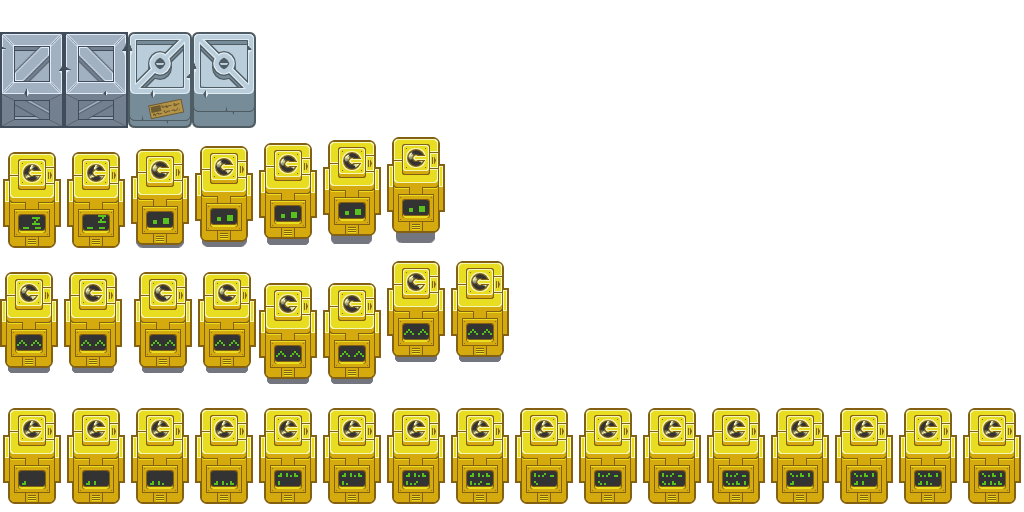
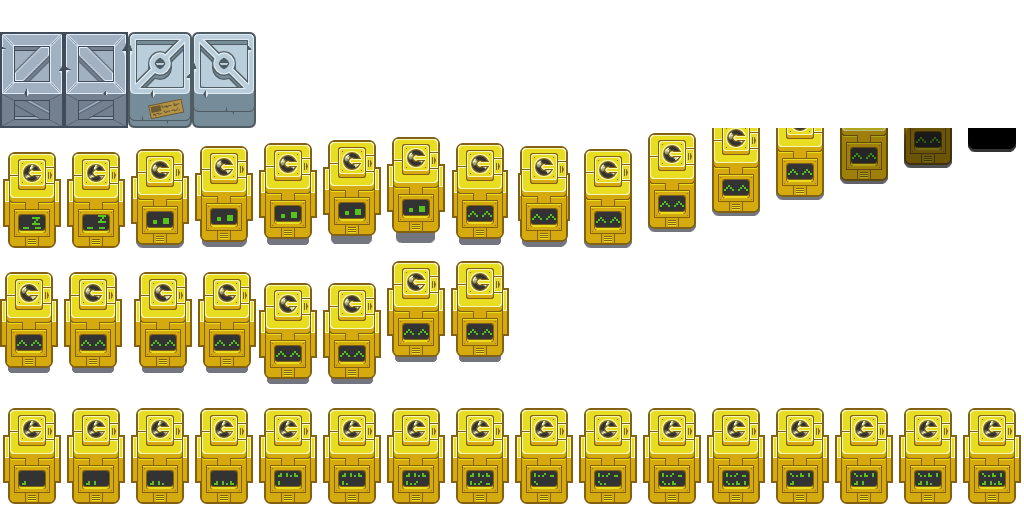
- add exit animation

Changed region(s): [[0.4375, 0.25, 1.0, 0.5]]

diff --git a/android/assets/maps/objects.tsx b/android/assets/maps/objects.tsx
@@ -1,0 +1,105 @@
+<?xml version="1.0" encoding="UTF-8"?>
+<tileset name="objects" tilewidth="64" tileheight="128" tilecount="64" columns="16">
+ <image source="objects.png" width="1024" height="512"/>
+ <tile id="16">
+  <animation>
+   <frame tileid="16" duration="400"/>
+   <frame tileid="17" duration="400"/>
+  </animation>
+ </tile>
+ <tile id="18">
+  <animation>
+   <frame tileid="18" duration="100"/>
+   <frame tileid="19" duration="100"/>
+   <frame tileid="20" duration="100"/>
+   <frame tileid="21" duration="100"/>
+   <frame tileid="22" duration="100"/>
+   <frame tileid="21" duration="100"/>
+   <frame tileid="20" duration="100"/>
+   <frame tileid="19" duration="100"/>
+  </animation>
+ </tile>
+ <tile id="23">
+  <properties>
+   <property name="loop" type="bool" value="false"/>
+  </properties>
+  <animation>
+   <frame tileid="23" duration="100"/>
+   <frame tileid="24" duration="100"/>
+   <frame tileid="25" duration="100"/>
+   <frame tileid="26" duration="100"/>
+   <frame tileid="27" duration="100"/>
+   <frame tileid="28" duration="100"/>
+   <frame tileid="29" duration="100"/>
+   <frame tileid="30" duration="100"/>
+   <frame tileid="31" duration="100"/>
+  </animation>
+ </tile>
+ <tile id="32">
+  <animation>
+   <frame tileid="32" duration="100"/>
+   <frame tileid="33" duration="100"/>
+  </animation>
+ </tile>
+ <tile id="34">
+  <animation>
+   <frame tileid="34" duration="100"/>
+   <frame tileid="35" duration="100"/>
+  </animation>
+ </tile>
+ <tile id="36">
+  <animation>
+   <frame tileid="36" duration="100"/>
+   <frame tileid="37" duration="100"/>
+  </animation>
+ </tile>
+ <tile id="38">
+  <animation>
+   <frame tileid="38" duration="100"/>
+   <frame tileid="39" duration="100"/>
+  </animation>
+ </tile>
+ <tile id="48">
+  <properties>
+   <property name="loop" type="bool" value="false"/>
+  </properties>
+  <animation>
+   <frame tileid="48" duration="100"/>
+   <frame tileid="49" duration="100"/>
+   <frame tileid="50" duration="100"/>
+   <frame tileid="51" duration="100"/>
+   <frame tileid="52" duration="100"/>
+   <frame tileid="53" duration="100"/>
+   <frame tileid="54" duration="100"/>
+   <frame tileid="55" duration="100"/>
+   <frame tileid="56" duration="100"/>
+   <frame tileid="57" duration="100"/>
+   <frame tileid="58" duration="100"/>
+   <frame tileid="59" duration="100"/>
+   <frame tileid="60" duration="100"/>
+   <frame tileid="61" duration="100"/>
+   <frame tileid="62" duration="100"/>
+   <frame tileid="63" duration="100"/>
+   <frame tileid="52" duration="100"/>
+   <frame tileid="53" duration="100"/>
+   <frame tileid="54" duration="100"/>
+   <frame tileid="55" duration="100"/>
+   <frame tileid="56" duration="100"/>
+   <frame tileid="57" duration="100"/>
+   <frame tileid="58" duration="100"/>
+   <frame tileid="59" duration="100"/>
+   <frame tileid="60" duration="100"/>
+   <frame tileid="61" duration="100"/>
+   <frame tileid="62" duration="100"/>
+   <frame tileid="63" duration="100"/>
+   <frame tileid="52" duration="100"/>
+   <frame tileid="53" duration="100"/>
+   <frame tileid="54" duration="100"/>
+   <frame tileid="55" duration="100"/>
+   <frame tileid="56" duration="100"/>
+   <frame tileid="57" duration="100"/>
+   <frame tileid="58" duration="100"/>
+   <frame tileid="59" duration="100"/>
+  </animation>
+ </tile>
+</tileset>
